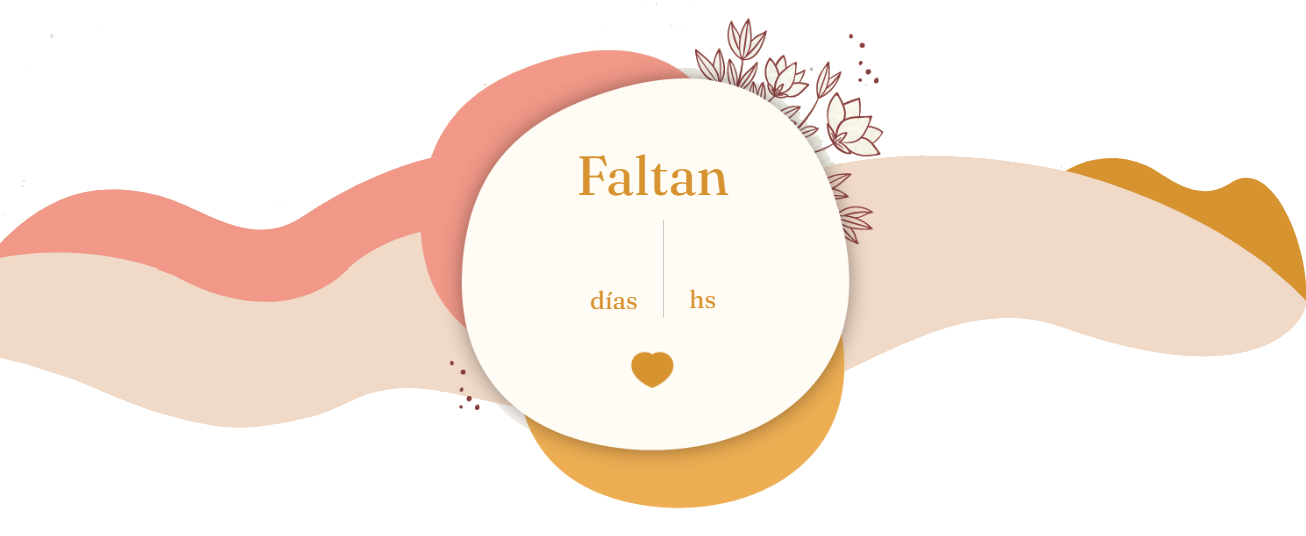
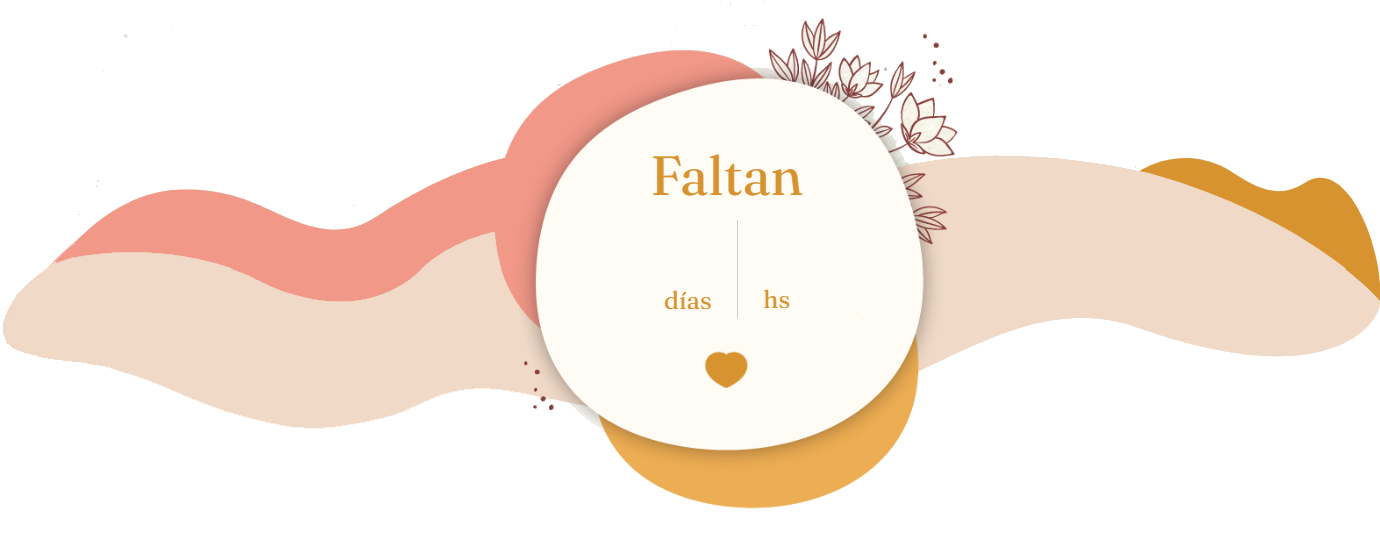
image complete

diff --git a/www/layouts/partials/custom_head.html b/www/layouts/partials/custom_head.html
@@ -99,7 +99,7 @@
           float: left;
           position: absolute;
           top: 45%;
-          left: 45%;
+          left: 48%;
           font-size: calc(1vw + 1vh + 1vmin);
 
 
@@ -113,7 +113,7 @@
           float: left;
           position: absolute;
           top: 45%;
-          left: 52.5%;
+          left: 54%;
           font-size: calc(1vw + 1vh + 1vmin);
      }
      
